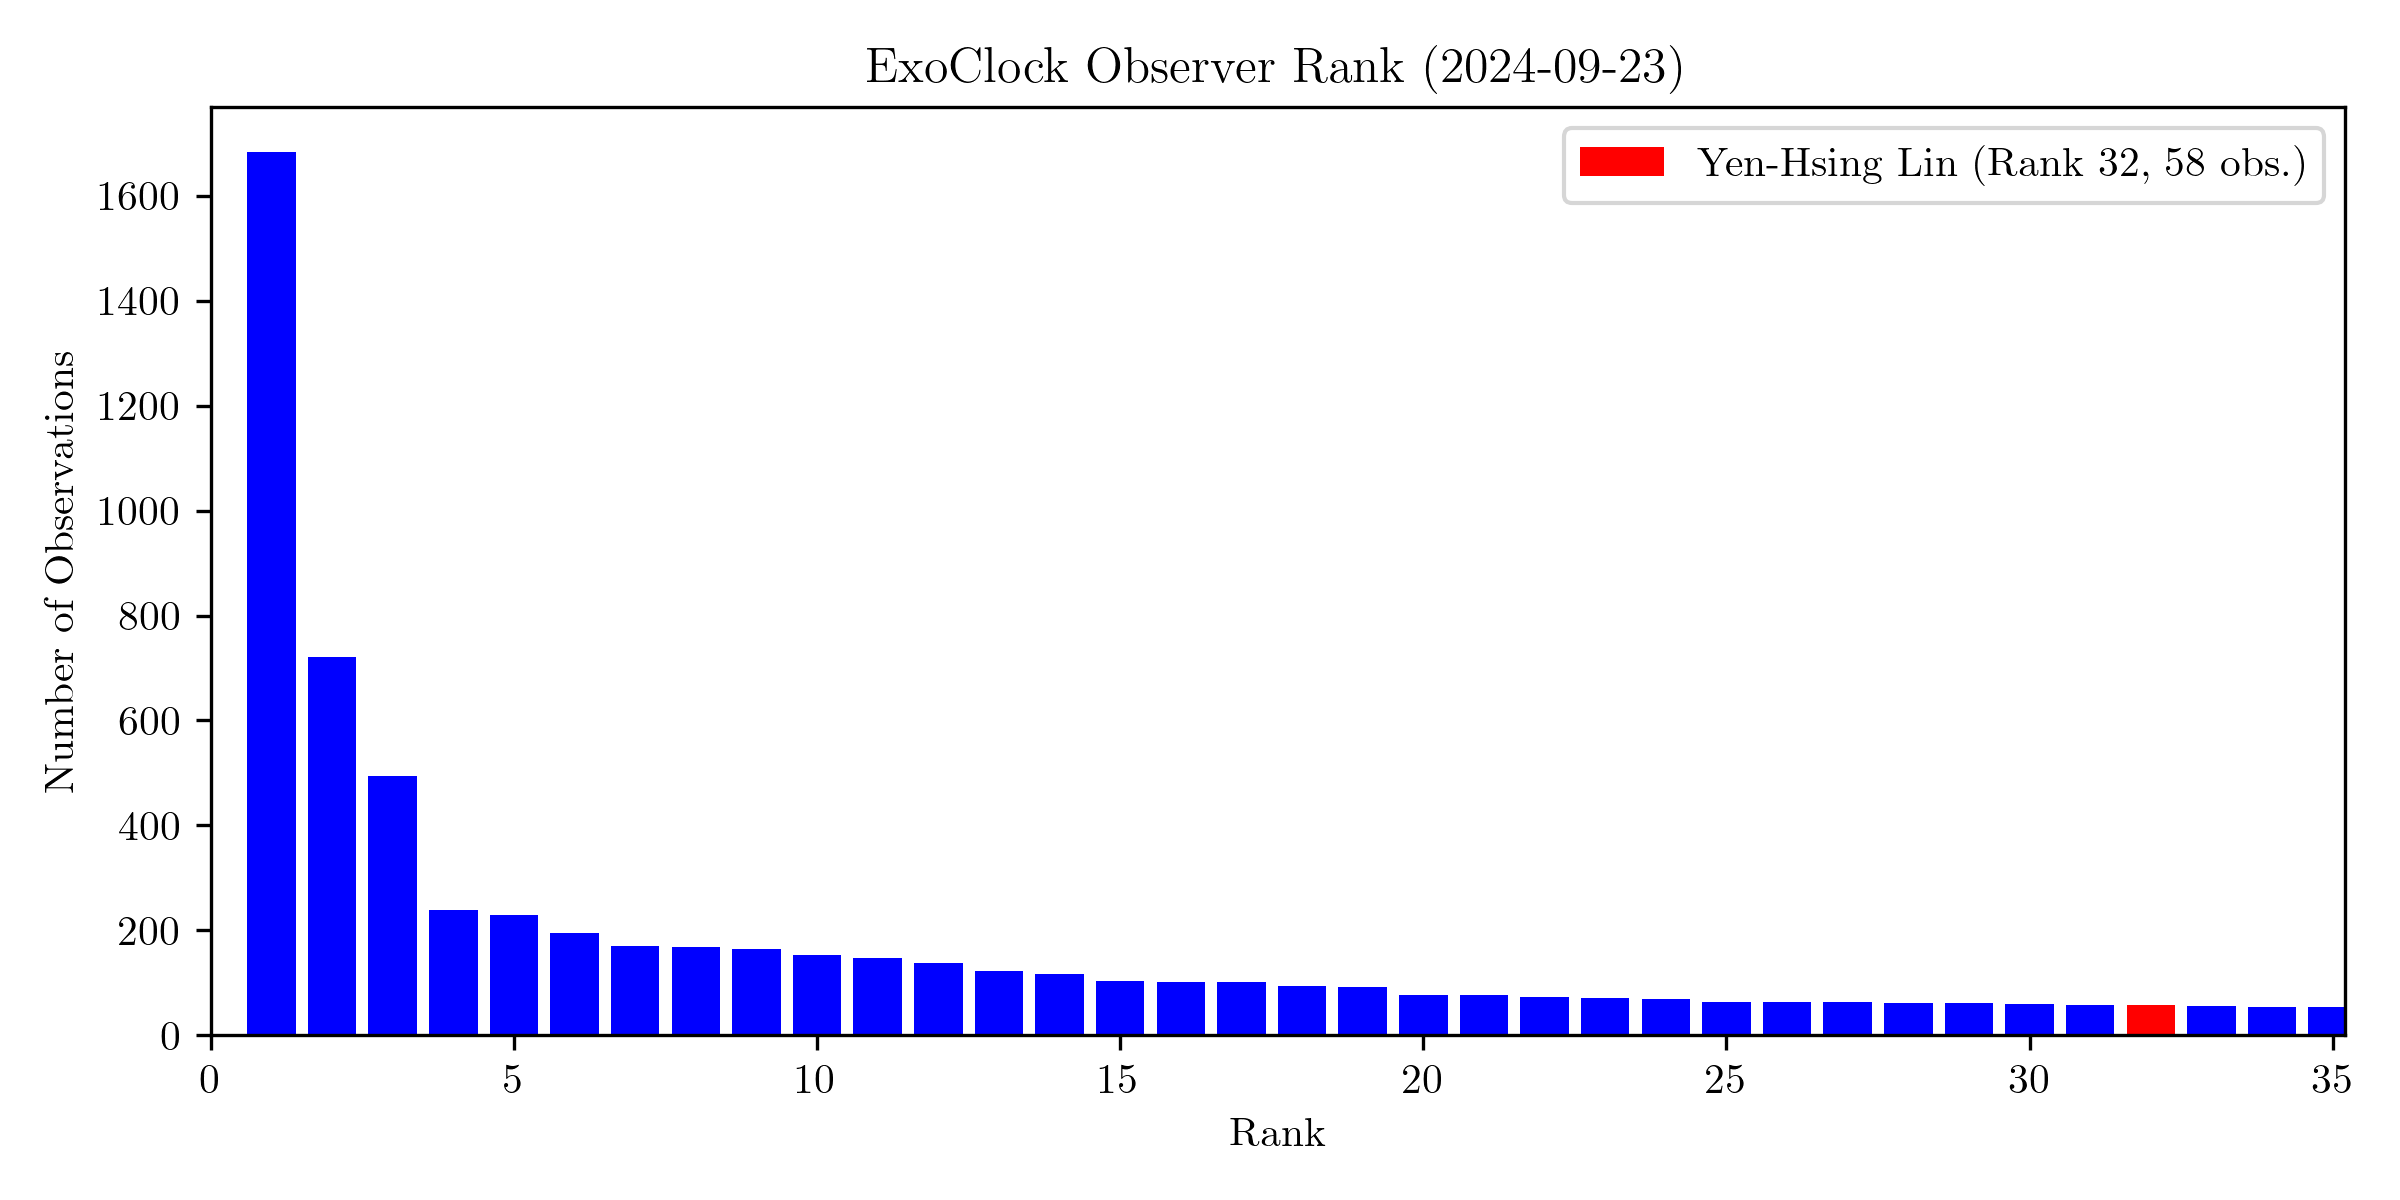
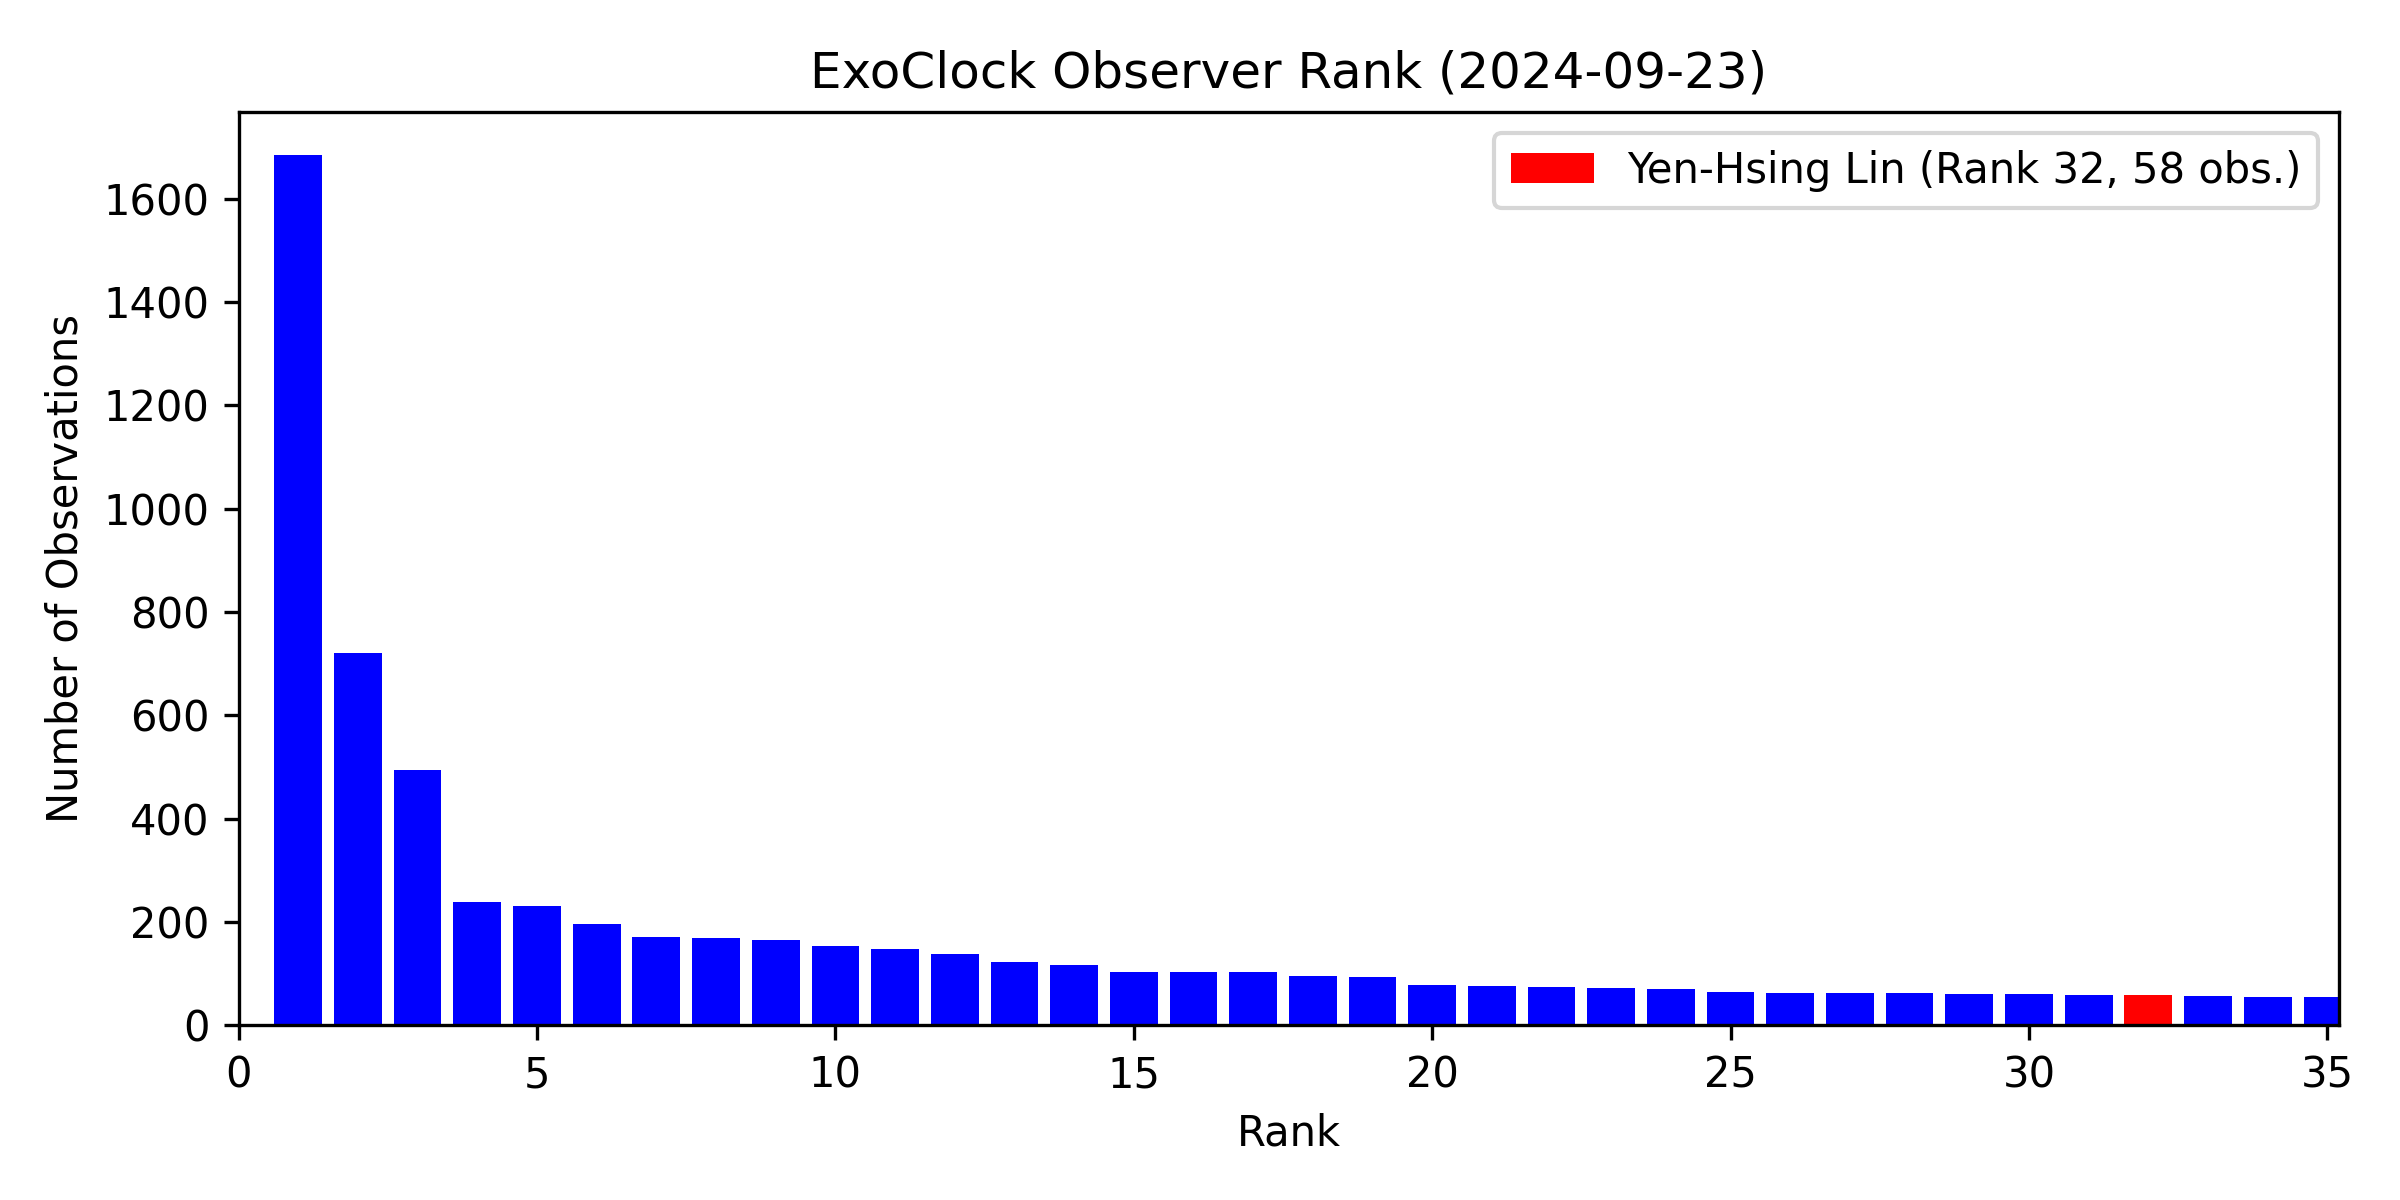
update

Changed region(s): [[0.0, 0.0308, 1.0, 0.8942], [0.5, 0.925, 0.5625, 0.9558]]

diff --git a/observations/observations.html b/observations/observations.html
@@ -60,7 +60,7 @@
 							<p>
 								I am also an active member of the <a href="https://nthuobs.phys.nthu.edu.tw/top">Taiwan astronomical Observation collaboration Platform (TOP)</a>, a community comprised of students, teachers, and amateur astronomers in Taiwan, aiming to gather astronomical observation resources of schools at all levels and amateur astronomers to collaborate on all kinds of observing projects in order to cultivate the interests of scientific exploration.
 							</p>
-							<span class="image"><img width=100% src="Transit_statistics.png" alt="" /></span>
+							<span class="image"><img width=100% src="ExoClock_TransitStatistics.png" alt="" /></span>
 						</section>
 						<footer class="major">
 							<ul class="actions special">

diff --git a/observations/Make_BarChart.py b/observations/Make_BarChart.py
@@ -17,8 +17,8 @@ import numpy as np
 from datetime import datetime
 
 # Set LaTeX rendering and font for plots
-plt.rcParams.update({"text.usetex": True})
-plt.rcParams['font.family'] = 'STIXGeneral'
+#plt.rcParams.update({"text.usetex": True})
+#plt.rcParams['font.family'] = 'STIXGeneral'
 
 
 class TransitObservationAnalysis:
@@ -106,7 +106,7 @@ class TransitObservationAnalysis:
 
         # Set plot title and axis labels
         current_date = datetime.now().strftime("%Y-%m-%d")
-        ax.set_title(f'Accumulated Number of TOP ExoClock Observations by Observatory Type ({current_date})')
+        ax.set_title(f'Accumulated Number of TOP ExoClock Observations ({current_date})')
         ax.set_ylabel('Accumulated Number of Observations')
 
         # Adjust x-axis ticks and labels
@@ -122,7 +122,7 @@ class TransitObservationAnalysis:
         plt.tight_layout()
 
         # Save the plot
-        fig.savefig("Transit_statistics.png", dpi=300)
+        fig.savefig("ExoClock_TransitStatistics.png", dpi=300)
 
 
 # Usage example

diff --git a/observations/Make_RankTable.py b/observations/Make_RankTable.py
@@ -8,7 +8,7 @@ import matplotlib.pyplot as plt
 url = "https://www.exoclock.space/database/observations_by_observer"
 fname_html = 'Exoclock.html'
 fname_xlsx = 'Exoclock.xlsx'
-'''
+
 # Send an HTTP GET request to the URL
 response = requests.get(url)
 
@@ -24,7 +24,7 @@ if response.status_code == 200:
     print(f"HTML file downloaded and saved as {fname_html}")
 else:
     print(f"Failed to download the HTML. Status code: {response.status_code}")
-'''
+
 file_path = 'Exoclock.html'  # Replace 'your_data.txt' with the actual file path
 with open(file_path, 'r', encoding="utf-8") as file:
     data = file.read()

diff --git a/observations/Make_RankPlot.py b/observations/Make_RankPlot.py
@@ -2,8 +2,8 @@ import pandas as pd
 import matplotlib.pyplot as plt
 from datetime import datetime
 
-plt.rcParams.update({"text.usetex": True})
-plt.rcParams['font.family'] = 'STIXGeneral'
+#plt.rcParams.update({"text.usetex": True})
+#plt.rcParams['font.family'] = 'STIXGeneral'
 
 # Sample DataFrame
 df = pd.read_excel('Exoclock.xlsx', names=['Name', 'Observations'])
